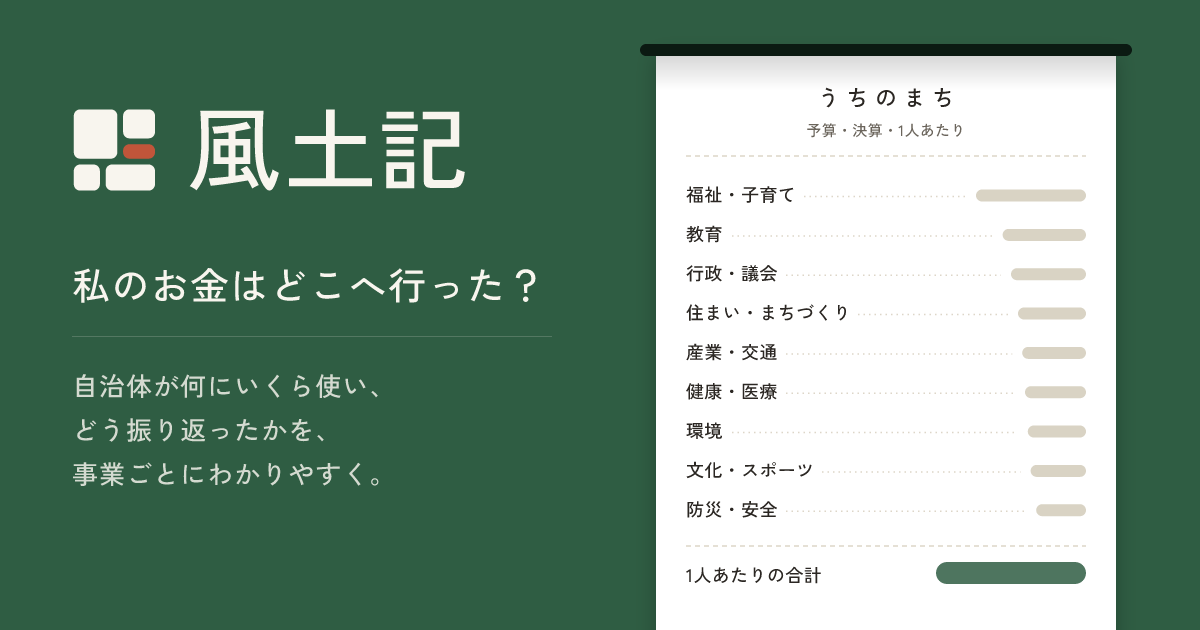
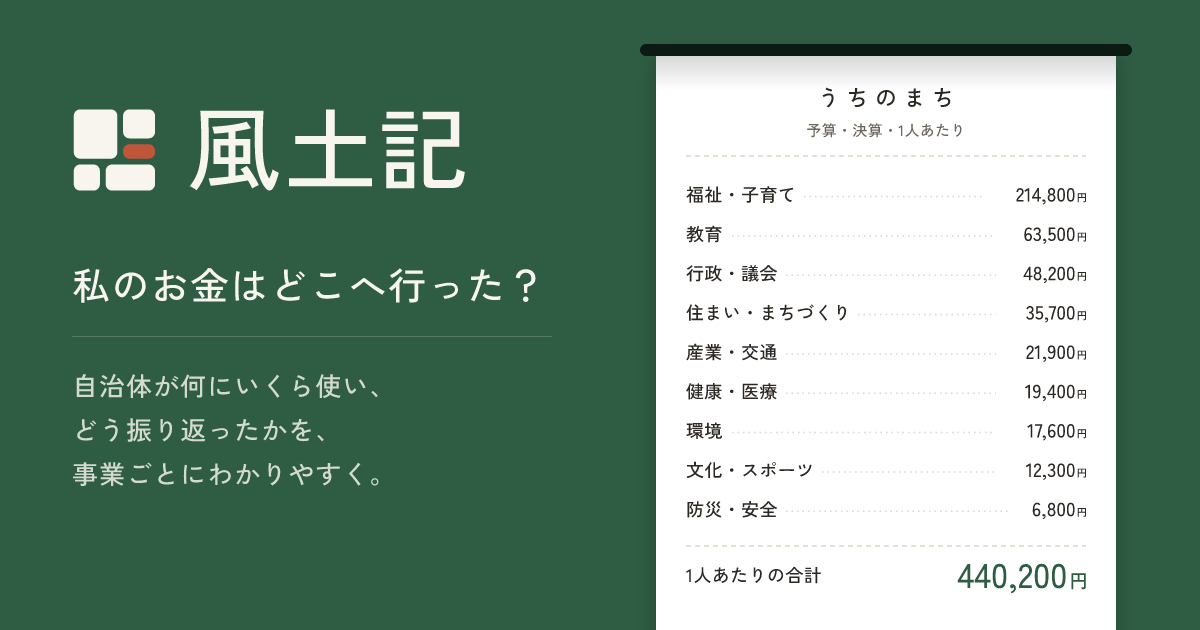
feat(web): 全頁共通の OG 画像のレシートにダミーの金額を書き、生成の script を足す
Claude-Session: https://claude.ai/code/session_01LjGAVfeH77NkHrds7X273y

diff --git a/apps/web/server/og-site.ts b/apps/web/server/og-site.ts
@@ -1,6 +1,6 @@
 // 全頁共通の OG 画像（public/og.png）。特定のまちを出さず、風土記そのものを紹介する。
 // ホームのレシートの OG 画像（og-receipt.ts）と同じ見た目で、左にロゴと問いかけと説明、右に差し出し口から垂れたレシートを描く。
-// レシートは分野の名前だけを並べ、金額は数字の代わりに長さの違う線にする（どのまちの数字でもないため）。
+// レシートの金額はダミー（どのまちの数字でもない）。分野の和を合計にする（2026-11-18 yuito「数字はダミーで良い」）。
 // public/og.png は scripts/og-site.ts がこの SVG から作る（手で直さない）
 import { LOGO_G } from '../logo'
 import { OG_FONT, OG_HEIGHT, OG_WIDTH } from './og'
@@ -11,7 +11,6 @@ const PAPER = '#ffffff'
 const TEXT = '#2b2723'
 const MUTED = '#6b655c'
 const RULE = '#ddd6c8'
-const BAR = '#d9d3c4'
 const LEFT = 72
 const SLOT_X = 640
 const SLOT_W = 492
@@ -22,23 +21,30 @@ const PAD = 30
 
 const TAGLINE = '私のお金はどこへ行った？'
 const LEAD = ['自治体が何にいくら使い、', 'どう振り返ったかを、', '事業ごとにわかりやすく。']
-/** 分野（COFOG 大分類の画面の名前）と、金額の代わりに引く線の長さ（0〜1） */
+/** 分野（COFOG 大分類の画面の名前）と、ダミーの1人あたりの金額 */
 const ROWS: [string, number][] = [
-  ['福祉・子育て', 1],
-  ['教育', 0.62],
-  ['行政・議会', 0.5],
-  ['住まい・まちづくり', 0.4],
-  ['産業・交通', 0.34],
-  ['健康・医療', 0.3],
-  ['環境', 0.26],
-  ['文化・スポーツ', 0.22],
-  ['防災・安全', 0.14],
+  ['福祉・子育て', 214800],
+  ['教育', 63500],
+  ['行政・議会', 48200],
+  ['住まい・まちづくり', 35700],
+  ['産業・交通', 21900],
+  ['健康・医療', 19400],
+  ['環境', 17600],
+  ['文化・スポーツ', 12300],
+  ['防災・安全', 6800],
 ]
+const TOTAL = ROWS.reduce((s, [, y]) => s + y, 0)
 
 const escape = (s: string) => s.replace(/&/g, '&amp;').replace(/</g, '&lt;').replace(/>/g, '&gt;')
 const ems = (s: string) => [...s].reduce((w, ch) => w + (ch.charCodeAt(0) < 0x80 ? 0.6 : 1), 0)
 
 type Anchor = 'start' | 'middle' | 'end'
+/** 1,234円。円は小さく組む（og-receipt.ts と同じ） */
+function yen(n: number, size: number, x: number, y: number, fill: string): string {
+  return `<text x="${x.toFixed(1)}" y="${y.toFixed(1)}" fill="${fill}" text-anchor="end"><tspan font-size="${size}">${n.toLocaleString('ja-JP')}</tspan><tspan font-size="${(size * 0.55).toFixed(1)}" dx="${(size * 0.06).toFixed(1)}">円</tspan></text>`
+}
+const yenWidth = (n: number, size: number) => ems(n.toLocaleString('ja-JP')) * size + size * 0.61
+
 function text(s: string, size: number, x: number, y: number, fill: string, anchor: Anchor = 'start', tracking = 0.02, opacity = 1): string {
   return `<text x="${x.toFixed(1)}" y="${y.toFixed(1)}" font-size="${size}" fill="${fill}"${opacity < 1 ? ` fill-opacity="${opacity}"` : ''} text-anchor="${anchor}" letter-spacing="${(size * tracking).toFixed(2)}">${escape(s)}</text>`
 }
@@ -57,13 +63,12 @@ export function siteOgSvg(): string {
   const mid = PAPER_X + PAPER_W / 2
   const rowsTop = 174
   const rowH = (528 - rowsTop) / ROWS.length
-  const rows = ROWS.map(([name, r], i) => {
+  const rows = ROWS.map(([name, n], i) => {
     const y = rowsTop + rowH * (i + 0.7)
     const nameEnd = x0 + ems(name) * 18 + 10
-    const w = 40 + 70 * r
-    const barStart = x1 - w
-    const lead = `<line x1="${nameEnd.toFixed(1)}" y1="${(y - 5).toFixed(1)}" x2="${(barStart - 10).toFixed(1)}" y2="${(y - 5).toFixed(1)}" stroke="${RULE}" stroke-width="1.5" stroke-dasharray="1.5 4"/>`
-    return text(name, 18, x0, y, TEXT) + lead + `<rect x="${barStart.toFixed(1)}" y="${(y - 12).toFixed(1)}" width="${w.toFixed(1)}" height="12" rx="6" fill="${BAR}"/>`
+    const amountStart = x1 - yenWidth(n, 19) - 10
+    const lead = `<line x1="${nameEnd.toFixed(1)}" y1="${(y - 5).toFixed(1)}" x2="${amountStart.toFixed(1)}" y2="${(y - 5).toFixed(1)}" stroke="${RULE}" stroke-width="1.5" stroke-dasharray="1.5 4"/>`
+    return text(name, 18, x0, y, TEXT) + lead + yen(n, 19, x1, y, TEXT)
   }).join('')
   const dashed = (y: number) => `<line x1="${x0}" y1="${y}" x2="${x1}" y2="${y}" stroke="${RULE}" stroke-width="1.5" stroke-dasharray="5 4"/>`
   const totalY = 588
@@ -76,7 +81,7 @@ export function siteOgSvg(): string {
     rows +
     dashed(totalY - 42) +
     text('1人あたりの合計', 18, x0, totalY - 6, TEXT) +
-    `<rect x="${x1 - 150}" y="${totalY - 26}" width="150" height="22" rx="11" fill="${BRAND}" fill-opacity="0.85"/>`
+    yen(TOTAL, 34, x1, totalY, BRAND)
   const slot = `<rect x="${SLOT_X}" y="${SLOT_Y}" width="${SLOT_W}" height="12" rx="6" fill="#0b1a12"/>`
 
   return (
